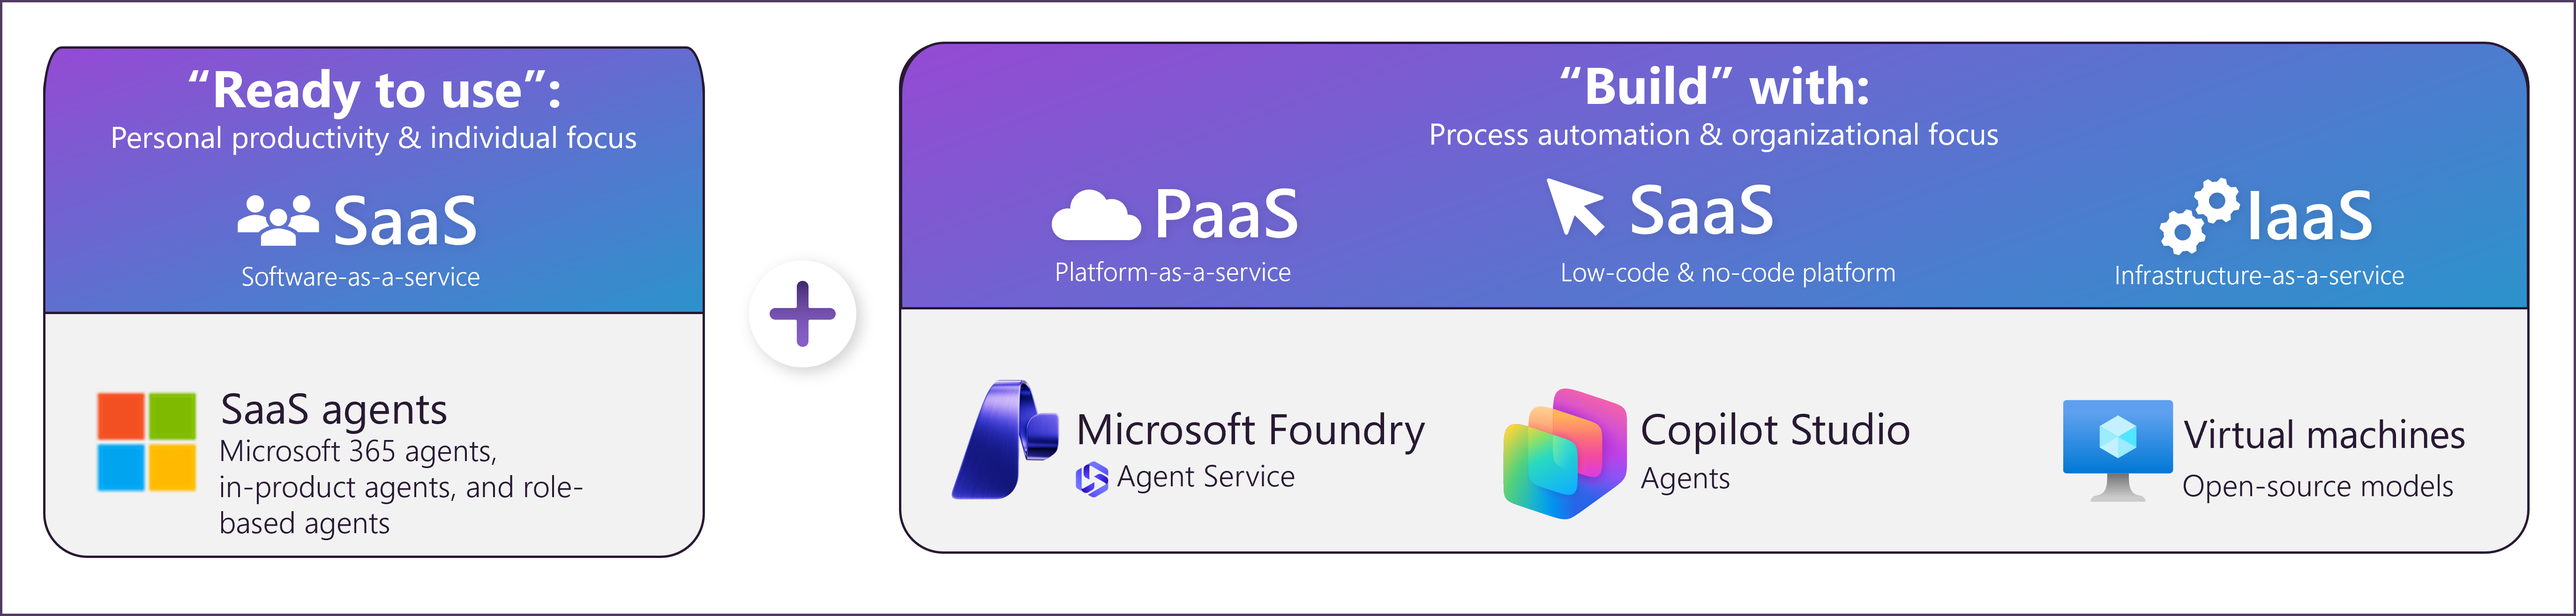
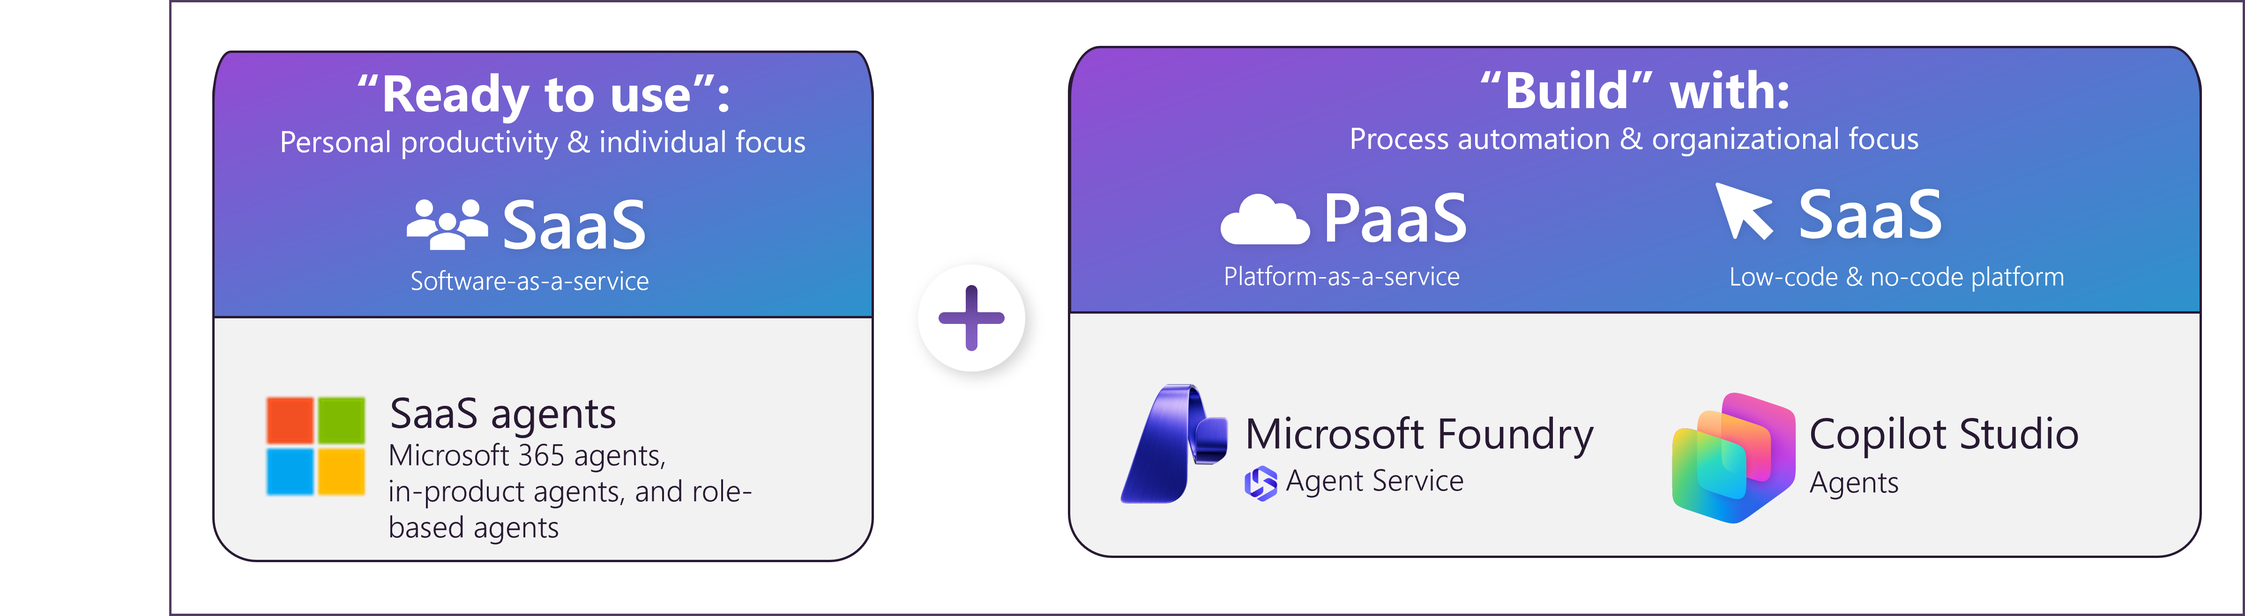
updates

diff --git a/docs/ai-agents/technology-plan.md b/docs/ai-agents/technology-plan.md
@@ -10,29 +10,23 @@ ms.topic: conceptual
 ms.collection: ce-skilling-ai-copilot
 ---
 
-# Technology plan for AI agents
+# Technology strategy for AI agents
 
+## Introduction
 Defining a technology strategy for AI agents is essential after establishing a business strategy. The business strategy identifies where AI agents create value through customer engagement, operational efficiency, and innovation. The technology strategy determines how to deliver these agents by selecting appropriate platforms, balancing implementation speed with customization needs, and managing costs effectively. This guidance helps technical decision makers evaluate options and make informed choices.
 
 ## Select AI technology options
-
-Organizations must decide when to use AI agents and when alternative approaches are more suitable. The decision depends on process complexity, customization requirements, and available resources.
+After establishing that your use case requires AI agents, decide whether to adopt ready-to-use SaaS agents or build custom agents. Ready-to-use agents reduce time to value and operational complexity but offer limited customization. Custom-built agents provide full control and deeper integration but require more development resources and ongoing maintenance. Evaluate functional requirements, timeline, budget, and internal capabilities to guide this decision.
 
 :::image type="content" source="./images/ai-agent-decision-tree.png" alt-text="Decision tree diagram showing when to use traditional AI apps, generative AI apps, SaaS agents, and AI agents you build." lightbox="./images/ai-agent-decision-tree.png" border="false":::
 
-1. **Build a tradition AI app.** Use traditional AI applications when processes follow clear rules, have structured workflows, and rely on consistent inputs and outputs. These scenarios do not require agents. Instead, use tools such as Microsoft Fabric for Data Science and Azure Machine Learning to build non-generative AI applications.
+### Use SaaS agents
 
-2. **Build a generative AI app.** Choose a generative AI chatbot when the goal is to answer questions using a defined set of organizational data without complex retrieval or orchestration. Azure OpenAI or Foundry can support these use cases effectively.
+If prebuilt solutions meet functional and budget requirements, adopt SaaS agents before building custom ones. Agents available in Microsoft 365 Copilot ([App Builder agent](/copilot/microsoft-365/app-builder-privacy-data-subject-request-faq), [Workflows agent](/copilot/microsoft-365/flow-builder-privacy-data-subject-request-faq), [Researcher](/copilot/microsoft-365/researcher-agent)), GitHub, Dynamics, and Security Copilot provide ready-to-use options for productivity and business process automation. Review the [Overview of available Microsoft Copilots](/azure/cloud-adoption-framework/scenarios/ai/strategy#adopt-microsoft-software-ai-services-saas-for-initial-outcomes) to identify relevant options. Use the [Agent Success Kit](https://adoption.microsoft.com/ai-agents/success-kit/) to plan your deployment and management approach.
 
-3. **Use SaaS agents.** If prebuilt solutions meet functional and budget requirements, adopt SaaS agents before building custom ones. There are agents available in Microsoft 365 Copilot ([App Builder agent](/copilot/microsoft-365/app-builder-privacy-data-subject-request-faq), [Workflows agent](/copilot/microsoft-365/flow-builder-privacy-data-subject-request-faq), [Researcher](/copilot/microsoft-365/researcher-agent)), GitHub, Dynamics, and Security Copilot provide ready-to-use options for productivity and business process automation. Review the [Overview of available Microsoft Copilots](/azure/cloud-adoption-framework/scenarios/ai/strategy#adopt-microsoft-software-ai-services-saas-for-initial-outcomes) to identify relevant options. Use the [Agent Success Kit](https://adoption.microsoft.com/ai-agents/success-kit/) to plan your deployment and management approach.
+When SaaS agents do not meet requirements, build custom agents.
 
-4. **Build AI agents.** When SaaS agents do not meet requirements, consider building custom agents using one of these approaches:
-
-    - Foundry Agent Service for pro-code development
-    - Microsoft Copilot Studio for low-code/no-code scenarios
-    - Virtual machines for highly regulated environments requiring full control
-
-## Solutions to build AI agents
+## Build AI agents
 
 Each build path offers different levels of control, investment, and governance complexity. Select the path that aligns with business priorities and technical capabilities.
 
@@ -44,29 +38,11 @@ The [Foundry Agent Service](/azure/ai-foundry/agents/overview) provides a platfo
 
 ### Microsoft Copilot Studio
 
-Use [Microsoft Copilot Studio](/microsoft-copilot-studio/) offers a software-as-a-service (SaaS) platform for low-code development. It enables business teams to deploy agents quickly with moderate customization. The platform includes prebuilt connectors, supports retrieval and task agents, and integrates with Azure AI Search. Built-in responsible AI features reduce the need for custom safeguards. Test use cases with the  [60-day free trial](/microsoft-copilot-studio/requirements-licensing-subscriptions#copilot-studio-for-microsoft-teams-plans) before committing to production deployment. Review available [access options](/microsoft-copilot-studio/fundamentals-what-is-copilot-studio#access-copilot-studio) to determine the best entry point for your organization.
+[Microsoft Copilot Studio](/microsoft-copilot-studio/) offers a software-as-a-service (SaaS) platform for low-code development. It enables business teams to deploy agents quickly with moderate customization. The platform includes prebuilt connectors, supports retrieval and task agents, and integrates with Azure AI Search. Built-in responsible AI features reduce the need for custom safeguards. Test use cases with the [60-day free trial](/microsoft-copilot-studio/requirements-licensing-subscriptions#copilot-studio-for-microsoft-teams-plans) before committing to production deployment. Review available [access options](/microsoft-copilot-studio/fundamentals-what-is-copilot-studio#access-copilot-studio) to determine the best entry point for your organization.
 
-### Virtual machines and agents
+### Virtual machine agents
 
-Deploy agents on GPU infrastructure and containers when complete control of the technology stack is required. This infrastructure-as-a-service (IaaS) approach supports all agent types and meets strict compliance or data residency requirements. Development uses Visual Studio Code and GitHub, with costs based on token consumption and compute usage. See  [AI on IaaS](/azure/cloud-adoption-framework/scenarios/ai/infrastructure/cycle-cloud).
-
-## Agent frameworks
-
-When building agent-based solutions, organizations must decide whether to use built-in orchestration or adopt an external framework. This decision affects flexibility, scalability, and governance.
-
-**Built-in orchestration**: Foundry Agent Service's native orchestration offers simplicity and speed. It integrates tightly with Foundry services and minimizes setup overhead. However, this approach limits flexibility and cross-platform scalability.
-
-**External frameworks**: External frameworks such as the [Microsoft Agent Framework](/agent-framework/overview/agent-framework-overview) provide greater control and adaptability. They support both single-agent and multi-agent orchestration in PaaS and IaaS deployments. These frameworks work with standard protocols that simplify integration and improve maintainability:
-
-- Model Context Protocol (MCP): Defines consistent interaction patterns between agents and external tools or data sources. See [Model Context protocol](/agent-framework/user-guide/model-context-protocol/).
-- Agent-to-Agent (A2A) Protocol: Enables programmatic agent discovery and coordination for dynamic multi-agent workflows. See [A2A protocol](/agent-framework/user-guide/agents/agent-types/a2a-agent)
-
-External frameworks require more engineering effort and governance but deliver long-term benefits in interoperability and scalability. If advanced orchestration or multi-cloud integration is a priority, adopt these frameworks early and establish governance standards for MCP and A2A protocols. Action steps for decision makers:
-
-1. Inventory existing integrations and frameworks.
-1. Clarify scalability and governance requirements.
-1. Run pilot tests with external frameworks to validate fit.
-1. Define standards for protocol adoption to ensure security and consistency.
+You can also choose to deploy agents on GPU infrastructure using Azure Virtual Machines with containers as an alternative. While this guidance does not provide detailed steps for that approach, it can be useful when you need flexibility for custom configurations, integration with existing VM-based workloads, or scenarios requiring advanced security controls. Development uses Visual Studio Code and GitHub. Costs scale with token consumption and compute usage. For deployment guidance, see [AI on IaaS](/azure/cloud-adoption-framework/scenarios/ai/infrastructure/cycle-cloud).
 
 ## Validate technology choices
 
@@ -75,9 +51,7 @@ Organizations often use multiple approaches to meet diverse requirements. Valida
 :::image type="content" source="./images/technology-options.png" alt-text="Diagram that shows how to ready-to-use vs. build technology options comparing Microsoft Copilots (ready-to-use) vs. Low-code (Microsoft Copilot Studio) and pro-code (Foundry) build options." lightbox="./images/technology-options.png" border="false":::
 
 1. **Run time-boxed experiments.** Build short prototypes for each candidate solution. Allocate one to two weeks per option. Compare low-code agents in Copilot Studio with pro-code solutions in Foundry. Evaluate development speed, functional coverage, and integration complexity.
-
 2. **Require documentation and stakeholder review.** Document findings and present clear recommendations. If a low-code solution meets functional and security requirements, proceed with that option. If not, shift to pro-code or adjust scope. Stakeholder review reduces rework and increases confidence.
-
 3. **Assess single-agent versus multi-agent architecture.** Use prototypes to determine whether the task requires multiple specialized agents or a single agent. Avoid unnecessary complexity. If a single agent meets business needs efficiently, proceed with that approach. If not, define a roadmap for multi-agent orchestration. Refer to [Single or multi-agent system?](./single-multi-agent-systems.md).
 
 | Solution | Approach | Agent types | Best for |

diff --git a/docs/ai-agents/data-architecture-plan.md b/docs/ai-agents/data-architecture-plan.md
@@ -14,7 +14,7 @@ ms.collection: ce-skilling-ai-copilot
 
 A strong data plan is essential for organizations that want AI agents to deliver accurate, secure, and actionable results. This guidance explains how to prepare organizational data for Microsoft SaaS agents such as Microsoft 365 Copilot and for custom AI agents built on platforms like Copilot Studio or Microsoft Foundry. It outlines the decisions business leaders must make and the trade-offs involved in each step.
 
-Organizations often underestimate the role of data readiness in AI success. AI agents do not create knowledge; they retrieve and synthesize information from existing sources. If those sources are incomplete, fragmented, or inaccessible, the agent produces inaccurate or misleading results. A well-designed data plan ensures that agents operate on authoritative content, respect security boundaries, and deliver consistent value across business processes.
+Organizations often underestimate the role of data readiness in AI success. AI agents do not create knowledge. They retrieve and synthesize information from existing sources. If those sources are incomplete, fragmented, or inaccessible, the agent produces inaccurate or misleading results. A well-designed data plan ensures that agents operate on authoritative content, respect security boundaries, and deliver consistent value across business processes.
 
 :::image type="content" source="images/alz-fabric-agents-data.png" alt-text="Diagram of a data estate from Microsoft 365 apps to data in Azure. It shows unification of business data in Microsoft Fabric's OneLake data lake, and how that data supports Foundry and Copilot Agents." lightbox="images/alz-fabric-agents-data.png":::
 
@@ -82,7 +82,7 @@ This adaptive model improves flexibility and performance because it prioritizes 
 | Data quality | Deduplicated, standardized | Certified, governed, optimized for analytics | Optimized for frequent queries and evolving business needs |
 | Structure | Normalized tables, semi-structured indexed | Semantic layer with KPIs, hierarchies, curated joins | Agent-generated tables or spec files for reproducibility |
 | Performance | Good for ad-hoc queries | High performance (materialized views, pre-aggregations) | Improves over time as agents learn common queries |
-| Governance | Registered in Purview | Certified and auditable in Purview | Registered dynamically; enforced via Foundry + DSPM guardrails |
+| Governance | Registered in Purview | Certified and auditable in Purview | Registered dynamically, Enforced via Foundry + DSPM guardrails |
 | Agent role | Consumes validated data | Queries curated sets for consistent metrics | Creates new curated sets or instructions for reuse |
 | Flexibility | High (raw + normalized) | Low (static definitions) | Very high (adaptive to real-world usage) |
 

diff --git a/docs/ai-agents/build-secure-process.md b/docs/ai-agents/build-secure-process.md
@@ -41,8 +41,8 @@ Standardize the environment and governance artifacts before building AI agents. 
 Orchestration determines how agents coordinate, make decisions, and execute tasks. Select an orchestration pattern that balances complexity with control.
 
 1. **Select an orchestration pattern.** Choose between managed services and custom frameworks based on organizational capability and requirements.
-    *   **Managed orchestration** (Azure AI Agent Service) offers quick deployment, built-in security, and enterprise connectors, but limits customization and transparency.
-    *   **Custom frameworks** (Microsoft Agent Framework, LangGraph) provide complete control, full visibility, and multi-cloud flexibility, but impose significant engineering effort and compliance responsibility.
+    *   **Managed orchestration** (Foundry Agent Service) offers quick deployment, built-in security, and enterprise connectors, but limits customization and transparency.
+    *   **Custom frameworks** (Microsoft Agent Framework, LangGraph) provide complete control, full visibility, and multi-cloud flexibility but increase engineering effort.
 
 2. **Use workflows for deterministic sequences.** Workflows are not mandatory but provide structure when processes require a predefined order of operations. Use workflows to define sequences that include agents, grounding AI decision-making in verifiable rules. This approach ensures reliability for complex tasks where consistency is prioritized over flexibility.
 

diff --git a/docs/ai-agents/integrate-manage-operate.md b/docs/ai-agents/integrate-manage-operate.md
@@ -3,7 +3,7 @@ title: Operate AI agents across your organization
 description: Operate AI agents across your organization
 author: stephen-sumner
 ms.author: pnp
-ms.date: 11/01/2025
+ms.date: 12/01/2025
 ms.update-cycle: 180-days
 ms.topic: conceptual
 ---
@@ -71,7 +71,7 @@ Variable costs for tokens and compute can scale disproportionately to business v
 
 :::image type="icon" source="./images/copilot-studio-icon.png"::: **Copilot Studio**: [Review usage and message allocation](/microsoft-copilot-studio/requirements-messages-management) to manage consumption and optimize licensing.
 
-### 4. Administration and gateway management
+### 4. Administer
 
 Centralized visibility and traffic control are essential for managing a sprawling agent ecosystem. Without a unified gateway, enforcing consistent policies across disparate projects becomes unmanageable.
 
